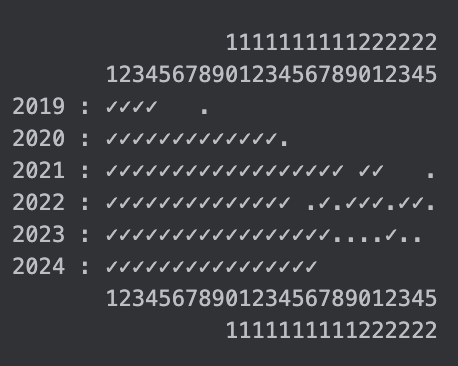
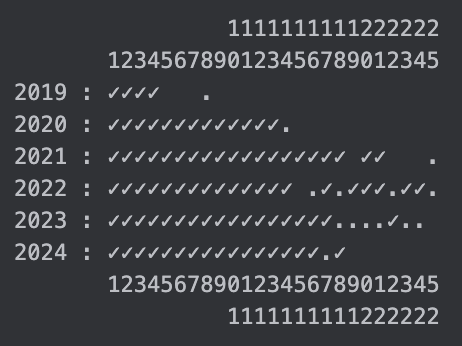
2024 Day 18 both done.

diff --git a/src/main/java/com/simongarton/adventofcode/year2024/Year2024Day18.java b/src/main/java/com/simongarton/adventofcode/year2024/Year2024Day18.java
@@ -15,7 +15,7 @@ import static java.awt.image.BufferedImage.TYPE_INT_RGB;
 public class Year2024Day18 extends AdventOfCodeChallenge {
 
     private static final boolean DEBUG = false;
-    
+
     private static final int BITMAP_SCALE = 10;
     private static final String CORRUPT = "#";
     private static final String WALL = "#";
@@ -36,16 +36,9 @@ public class Year2024Day18 extends AdventOfCodeChallenge {
     @Override
     public String part1(final String[] input) {
 
-        this.emptyTempFolder();
+        this.setup(input);
 
-        this.mapHeight = 71;
-        this.mapWidth = 71;
         final int totalIterations = 1024;
-
-        this.challengeMap = new ArrayList<>();
-        for (int i = 0; i < this.mapHeight; i++) {
-            this.challengeMap.add(".".repeat(this.mapWidth));
-        }
 
         for (int iteration = 0; iteration < totalIterations; iteration++) {
             final String data = input[iteration];
@@ -54,7 +47,7 @@ public class Year2024Day18 extends AdventOfCodeChallenge {
         }
 
         this.shortest = Integer.MAX_VALUE;
-        final List<Node> shortestPaths = this.shortestPaths();
+        final List<Node> shortestPaths = this.shortestPaths(true);
 
         int best = Integer.MAX_VALUE;
         this.paintChallengeMapWithAllNodes(shortestPaths);
@@ -66,6 +59,19 @@ public class Year2024Day18 extends AdventOfCodeChallenge {
         }
 
         return String.valueOf(best);
+    }
+
+    private void setup(final String[] input) {
+
+        this.emptyTempFolder();
+
+        this.mapHeight = 71;
+        this.mapWidth = 71;
+
+        this.challengeMap = new ArrayList<>();
+        for (int i = 0; i < this.mapHeight; i++) {
+            this.challengeMap.add(".".repeat(this.mapWidth));
+        }
     }
 
     private void paintChallengeMapWithAllNodes(final List<Node> shortestPaths) {
@@ -110,7 +116,7 @@ public class Year2024Day18 extends AdventOfCodeChallenge {
         lines.remove(coord.y + 1);
     }
 
-    private List<Node> shortestPaths() {
+    private List<Node> shortestPaths(final boolean findAll) {
 
         final Node startNode = new Node(new AoCCoord(0, 0), null, 0);
         final AoCCoord endCoord = new AoCCoord(this.mapWidth - 1, this.mapHeight - 1);
@@ -130,6 +136,9 @@ public class Year2024Day18 extends AdventOfCodeChallenge {
                     System.out.println("got there at " + iteration + " length " + this.lengthOfTrail(current));
                 }
                 hits.add(current);
+                if (!findAll) {
+                    break;
+                }
                 continue;
             }
             final List<Node> neighbours = this.getNeighbours(current, visited, available);
@@ -286,7 +295,32 @@ public class Year2024Day18 extends AdventOfCodeChallenge {
 
     @Override
     public String part2(final String[] input) {
-        return null;
+
+        this.setup(input);
+
+        final int low = 2850;
+        final int high = 2860; // input.length;
+
+        String badCoord = null;
+        for (int totalIterations = high; totalIterations >= low; totalIterations--) {
+
+            this.setup(input);
+
+            for (int iteration = 0; iteration < totalIterations; iteration++) {
+                final String data = input[iteration];
+                final AoCCoord coord = new AoCCoord(data);
+                this.setChallengeMapLetter(coord.x, coord.y, "#");
+            }
+
+            this.shortest = Integer.MAX_VALUE;
+            final List<Node> shortestPaths = this.shortestPaths(false);
+            if (!shortestPaths.isEmpty()) {
+                badCoord = input[totalIterations];
+                break;
+            }
+        }
+
+        return badCoord;
     }
 
     static class Node {

diff --git a/readme.md b/readme.md
@@ -9,6 +9,24 @@ on 1 Dec, and getting progressively harder - I rarely finish the last few days.
 
 ## 2024
 
+## Day 18 : RAM Run
+
+And I thought the Day 16 map was evil. A* delivers a shortest path very quickly, but the really shortest one
+takes AGES to find.
+
+![Part 1](2024-Day18-1.png)
+
+But part 2 was disappointingly easy, just find when you've added too many walls to navigate the maze.
+
+## Day 16: Chronospatial Computer (1,2)
+
+A famous OpCode computer. I've really struggled with these in the past, but this time I persevered, and got
+part 1 working - I'd written the computer which reads the program, it was passing all the tests, but
+failing on the real data, so I handcoded the specific program into a 10 line Java file and spotted
+a bug.
+
+Still working on part 2, though.
+
 ## Day 16: Reindeer Maze
 
 Sometimes you just get stuck. Today was a maze-navigating algorithm, straight forward enough, except that making a turn

diff --git a/progress.md b/progress.md
@@ -5,6 +5,6 @@
     2021 : ✓✓✓✓✓✓✓✓✓✓✓✓✓✓✓✓✓✓ ✓✓   .
     2022 : ✓✓✓✓✓✓✓✓✓✓✓✓✓✓ .✓.✓✓✓.✓✓.
     2023 : ✓✓✓✓✓✓✓✓✓✓✓✓✓✓✓✓✓....✓..
-    2024 : ✓✓✓✓✓✓✓✓✓✓✓✓✓✓✓✓
+    2024 : ✓✓✓✓✓✓✓✓✓✓✓✓✓✓✓✓.✓
            1234567890123456789012345
                     1111111111222222
